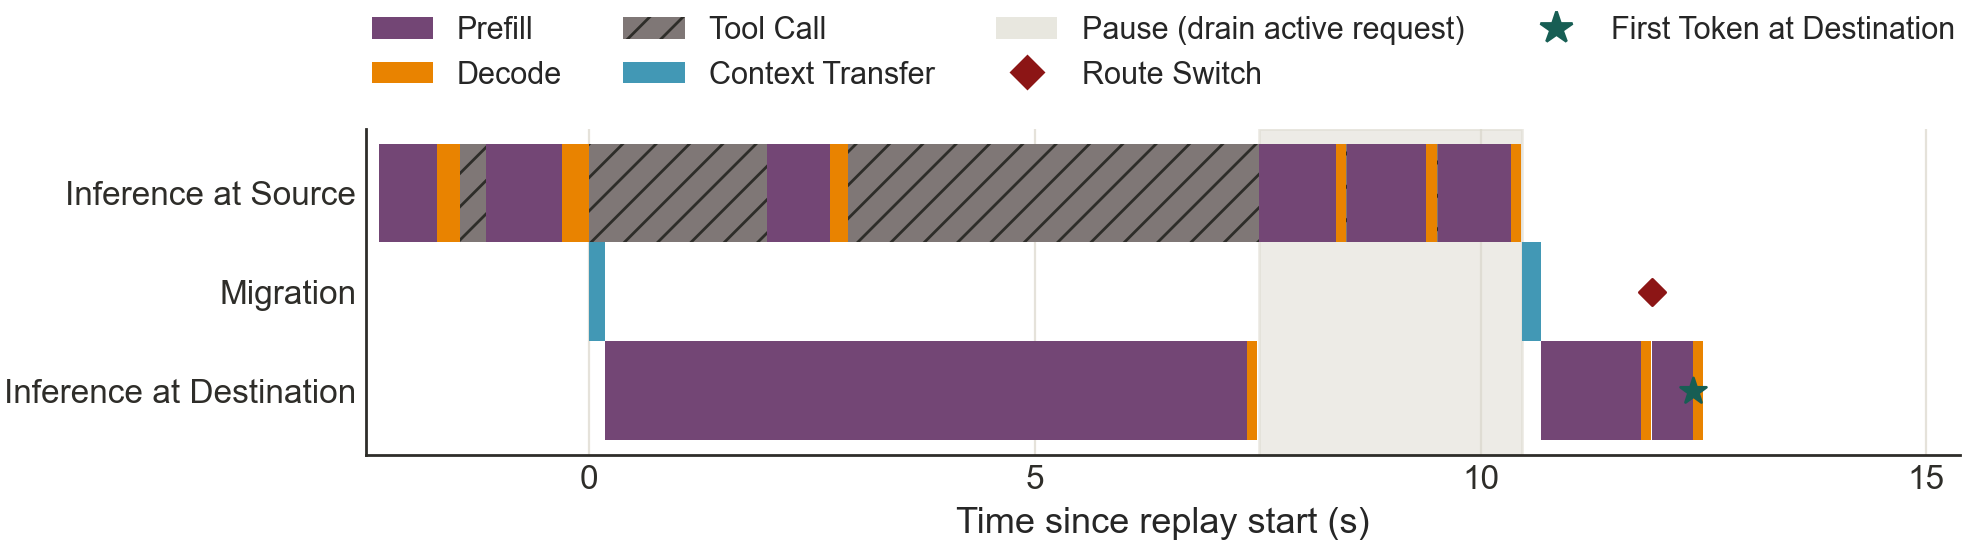
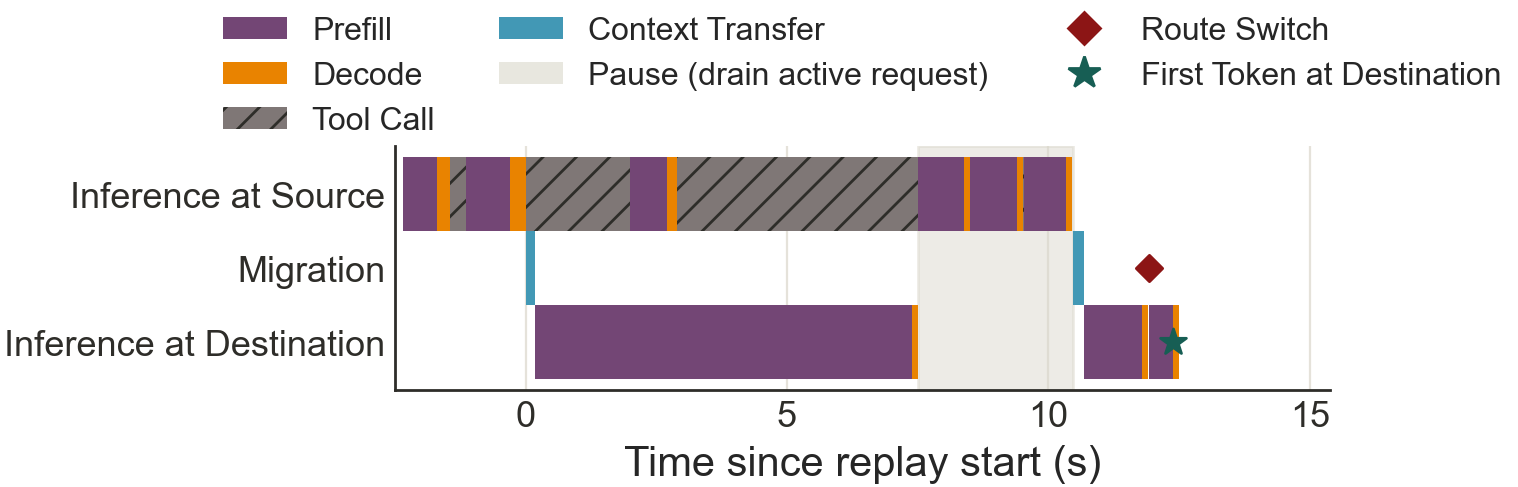
Increase paper-scale timeline text

diff --git a/agent-migrate/queue-haul/plot_testbed_kv_timeline.py b/agent-migrate/queue-haul/plot_testbed_kv_timeline.py
@@ -215,8 +215,8 @@ def plot(timeline_path: Path, inference_path: Path, out: Path) -> None:
     method = timeline[0]["method"]
     plt.style.use("seaborn-v0_8-whitegrid")
     plt.rcParams.update({
-        "font.size": 12, "axes.labelsize": 13, "xtick.labelsize": 12,
-        "ytick.labelsize": 12, "legend.fontsize": 11,
+        "font.size": 13, "axes.labelsize": 15, "xtick.labelsize": 13,
+        "ytick.labelsize": 13, "legend.fontsize": 11.5,
     })
     colors = {
         "bulk": "#4298B5",
@@ -230,7 +230,7 @@ def plot(timeline_path: Path, inference_path: Path, out: Path) -> None:
         "text": "#2E2D29",
         "grid": "#DAD7CB",
     }
-    fig, gantt = plt.subplots(figsize=(10, 3.1))
+    fig, gantt = plt.subplots(figsize=(7.2, 3))
     phase_labels = (
         "Bulk KV Transfer + Ingest", "Final KV Delta Transfer + Ingest",
     ) \
@@ -346,8 +346,8 @@ def plot(timeline_path: Path, inference_path: Path, out: Path) -> None:
         ),
     )
     gantt.legend(
-        handles=legend, frameon=False, ncol=4, loc="upper center",
-        bbox_to_anchor=(.5, 1.43),
+        handles=legend, frameon=False, ncol=3, loc="upper center",
+        bbox_to_anchor=(.5, 1.65),
     )
     gantt.grid(axis="x", color=colors["grid"], linewidth=.8, alpha=.7)
     gantt.grid(axis="y", visible=False)
@@ -363,6 +363,7 @@ def plot(timeline_path: Path, inference_path: Path, out: Path) -> None:
     gantt.set_xlim(-2.5, end)
     gantt.set_xticks(range(0, int(end) + 1, 5))
     fig.tight_layout(pad=.25)
+    fig.subplots_adjust(top=.58)
     fig.savefig(out.with_suffix(".png"), dpi=200, bbox_inches="tight", pad_inches=.02)
     fig.savefig(out.with_suffix(".pdf"), bbox_inches="tight", pad_inches=.02)
     plt.close(fig)
